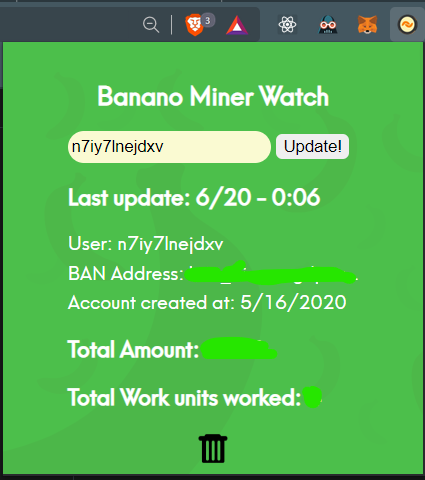
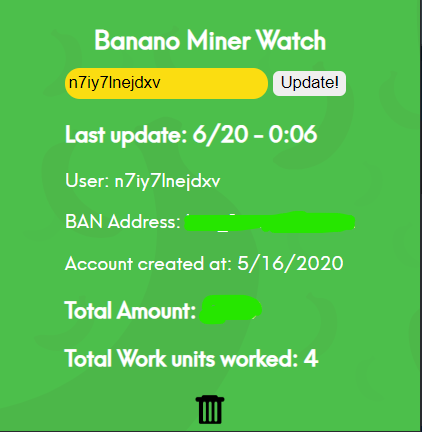
update asset for readme

diff --git a/readme.md b/readme.md
@@ -1,7 +1,6 @@
 # Introduction Banano Miner Watch V 1.1
 
 ![](./assets/mine-intro.png)
-(screenhost not up-to-date)
 
 Banano Miner Watch is a **Chrome Browser Extension** that gives you the amount that came from home@folding and WorkUnits that you worked there in an easy way!
 
@@ -29,7 +28,5 @@ Now it's easy, you get your user id from banano miner and put there! Then will s
 
 
 ![](./assets/inside-amount.png)
-(screenhost not up-to-date)
-
 
 *That's it guys, If you need to talk with me can found me on my [twitter](https://twitter.com/andrecrjr) or tip me with BATs or Bananos! Feel free to share and improve it that I can accept PR's!*
